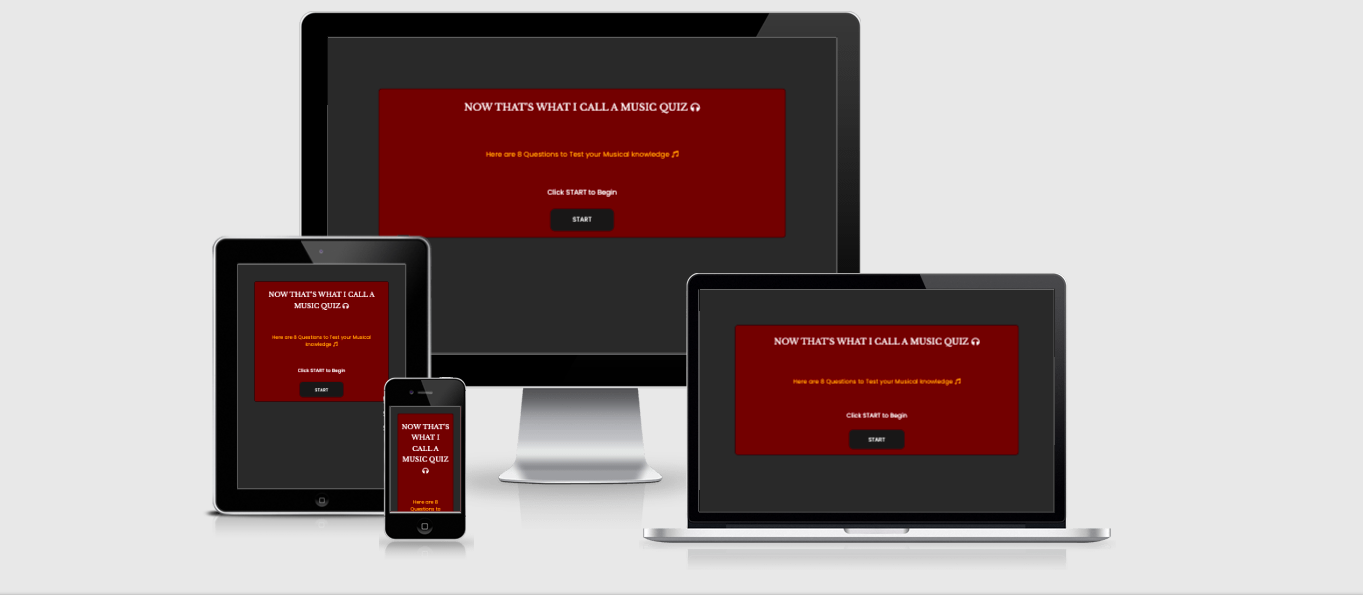
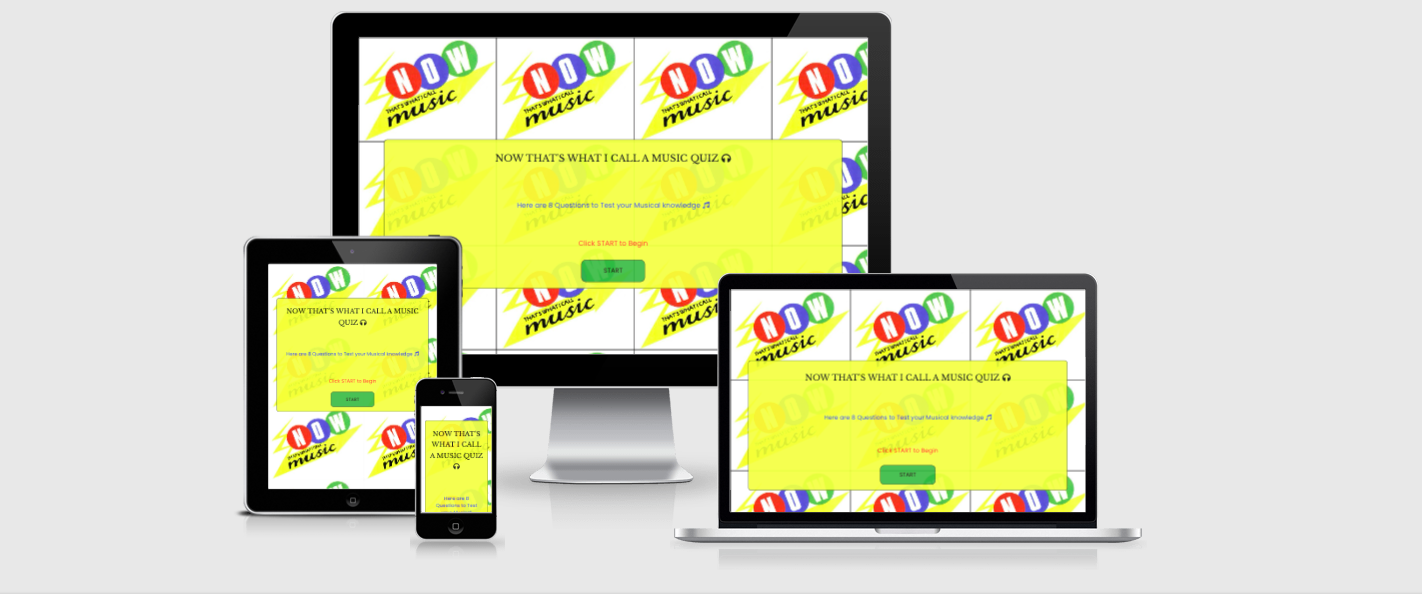
Add images to the README

diff --git a/assets/css/style.css b/assets/css/style.css
@@ -197,13 +197,13 @@ div ul {
 }
 
 .question-style {
-    border: 1px solid white;
+    border: 1px solid black;
     height: 50px;
     border-radius: 12px;
     width: 100%;
     text-align: left;
-    background-color:#f16751;
-    color: white;
+    background-color: white;
+    color:#0f0d07;
     font-family: roboto;
     font-weight: 400;
     padding: 10px;

diff --git a/README.md b/README.md
@@ -4,13 +4,15 @@
 ## Site Overview
 
 
-The Now That's What I Call a Music Quiz is a parodic ode to the biggest selling album compilation brand in the world, which first came to light in the early 80s. The website is a quizzical resource created for those who enjoy music and the more kitsch elements this brand has continued to exhibit from the 80s to this current day. It is designed to test the musical knowledge of those who partake in the quiz, offering questions that span a few decades.
+The Now That's What I Call a Music Quiz is a parodic ode to the biggest selling album compilation brand in the world, which first came to light in the early 80s. The website is a quizzical resource created for those who enjoy music and the more kitsch elements this brand has continued to exhibit from the 80s to this current day. It is designed to test the musical knowledge of those who partake in the quiz, offering questions that span a number of decades.
 <br><br>
 
 It is a quiz designed to be interacted with by people of all ages and its use serves to provide a fun and brain-teasing experience for those who want to know if their knowledge is up to scratch musically. 
 <br><br>
 
-The Home page of the quiz is the primary source that reflects a strong and appealing visual of what the quiz is all about. The opening title highlights a relationship to music and reference a well-known and love brand in an anachronistic manner. Enthusiasts of the brand through all eras can relate to the slogan "Now That's What I Call Music!". This is emblazoned on the Home page as a strong title. The background image is the official logo representative of Now 3 to Now 17, from years 1984 to 1990. On the Information page it indicates there are 8 questions available for users to attempt. This is a whittled down question bank that lends to the 8 surrounding the 80s theme.
+The Home page of the quiz is the primary source that reflects a strong and appealing visual of what the quiz is all about. The opening title highlights a relationship to music and references a well-known and loved brand in an anachronistic manner. Enthusiasts of the brand through all eras can relate to the slogan "Now That's What I Call Music!". This is emblazoned on the Home page as a strong title. The background image is the official logo representation of NTWICM compilation albums from Now 3 through to Now 17, covering 1984 to 1990. 
+
+The Information page gives simple instructions on how to complete the quiz and what the user will come to expect. On the Information page it indicates there are 8 questions available for users to attempt. It shows instructions on how to get to the quiz, how to submit answers, and how many questions will be totted up correctly upon conclusion of the quiz.
 <br><br>
 
 
@@ -25,7 +27,7 @@ The Home page of the quiz is the primary source that reflects a strong and appea
 
 * People who enjoy music.
 
-* People who are interested in finding out more about various artists and musicians spanning the decades since the 80s.
+* People who are interested in finding out more about various artists and musicians that are referenced in the quiz.
 
 * People who have a penchant for taking part in quizzes, testing themselves on music from different eras.
 
@@ -47,9 +49,9 @@ The Home page of the quiz is the primary source that reflects a strong and appea
 
 ## Returning Visitors
 
-* For returning visitors it would be good to have updated information on new walks.
+* For returning visitors it would be good to have a larger bank of questions for a user to test themselves.
 
-* For returning visitors new images and information on new walks would be great to see.
+* For returning visitors an indicator of correct and incorrect answers during the quiz would be helpful.
 
 <br>
 
@@ -63,7 +65,7 @@ The Home page of the quiz is the primary source that reflects a strong and appea
 
 <br>
 
-* For the colour schema of the website I largely drew from a personal aesthetic in a protracted and considered fashion. I mixed and matched colours that I felt coincided well off the palette. The body colourway proved to be the most regularly amended and I finally resolved on rgba(10, 23, 34, 0.712). I think this colour set well with the images placed within the main body of the website, in particular on the Walks page.
+* For the colour schema of the website I initially drew from a personal aesthetic that I felt could work well as a quiz. I mixed and matched colours that I felt coincided well off the palette but as the project was partially based on a theme I decided to go with colours that complimented the thematic background image. To mirror the retro colourway of the other elements on the site I used Pixlr to grab the original logo colours. This worked well and gave the quiz a more vibrant and fun feel, which is the desired effect of a quiz endeavour. The primary trio of colours were as follows: #fcff4a, #4f61d5, #61b03f.
 
 * Navbar links and Heading text in the Home page were offered the unadventurous, but stellar rgb(255, 255, 255). This worked well and in keeping with a simple and understated look, but nonetheless, a classic design.
 
